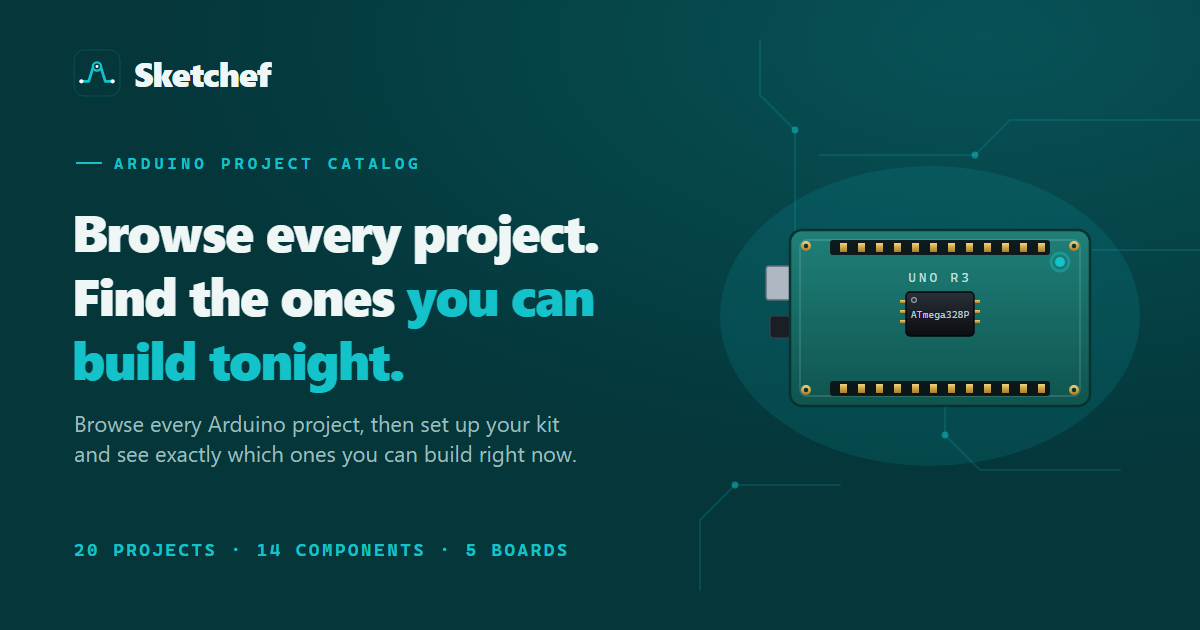
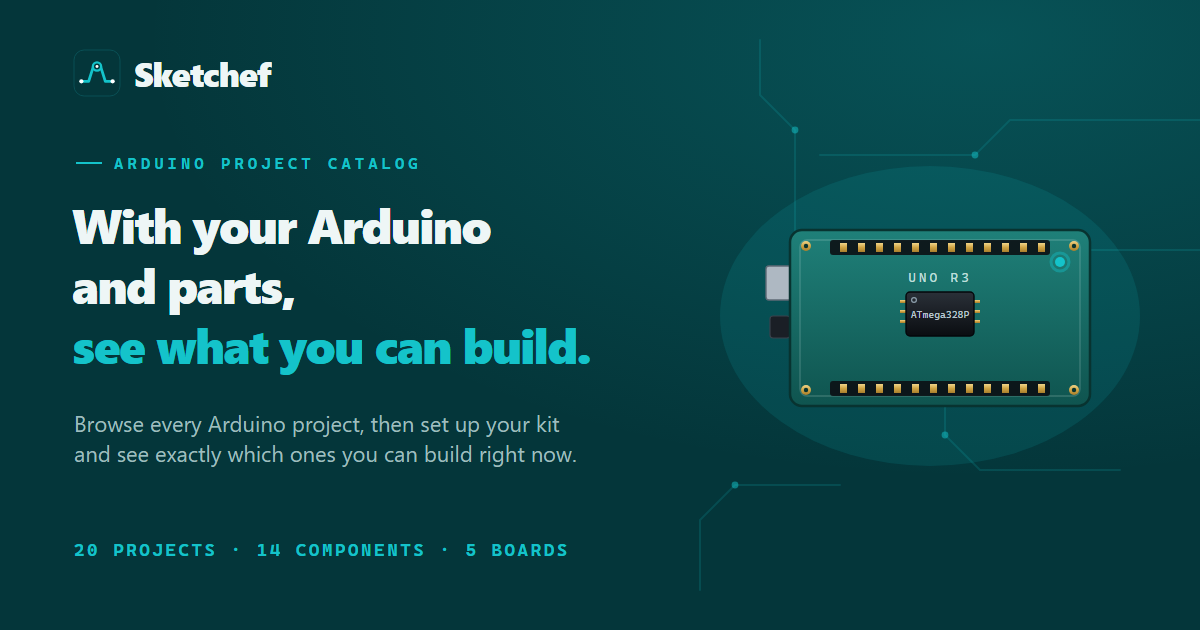
Reframe the headline around the kit → what-you-can-build promise
The old "Browse every project. Find the ones you can build tonight." led with
the catalog; the product's actual value is matching: tell it your board and
parts, and it shows what you can build. New headline "With your Arduino and
parts, see what you can build." (white lead = your kit, teal accent = the
payoff). Updated the social card to match and bumped og-image ?v=3.

Changed region(s): [[0.0617, 0.3317, 0.4933, 0.6333]]

diff --git a/index.html b/index.html
@@ -15,14 +15,14 @@
     <meta property="og:title" content="Sketchef: the Arduino project catalog" />
     <meta property="og:description" content="Browse every Arduino project, then set up your kit and see which ones you can build right now — wiring, steps and code included." />
     <meta property="og:url" content="https://sketchef.vercel.app/" />
-    <meta property="og:image" content="https://sketchef.vercel.app/og-image.png?v=2" />
+    <meta property="og:image" content="https://sketchef.vercel.app/og-image.png?v=3" />
     <meta property="og:image:width" content="1200" />
     <meta property="og:image:height" content="630" />
     <meta property="og:image:alt" content="Sketchef: the Arduino project catalog" />
     <meta name="twitter:card" content="summary_large_image" />
     <meta name="twitter:title" content="Sketchef: the Arduino project catalog" />
     <meta name="twitter:description" content="Browse every Arduino project, then set up your kit and see which ones you can build right now." />
-    <meta name="twitter:image" content="https://sketchef.vercel.app/og-image.png?v=2" />
+    <meta name="twitter:image" content="https://sketchef.vercel.app/og-image.png?v=3" />
   </head>
   <body>
     <div id="root"></div>

diff --git a/src/routes/CatalogPage.jsx b/src/routes/CatalogPage.jsx
@@ -35,11 +35,12 @@ const STATUS_FACETS = [
 // The headline, tokenised so each WORD can stagger in on its own. The tail
 // four words are the teal accent phrase.
 const HEADLINE = [
-  'Browse', 'every', 'project.', 'Find', 'the', 'ones',
+  'With', 'your', 'Arduino', 'and', 'parts,',
+  { t: 'see', accent: true },
+  { t: 'what', accent: true },
   { t: 'you', accent: true },
   { t: 'can', accent: true },
-  { t: 'build', accent: true },
-  { t: 'tonight.', accent: true },
+  { t: 'build.', accent: true },
 ];
 // Index of the first accent word — used to phase the "current" sheen across them.
 const FIRST_ACCENT = HEADLINE.findIndex((w) => typeof w === 'object' && w.accent);
